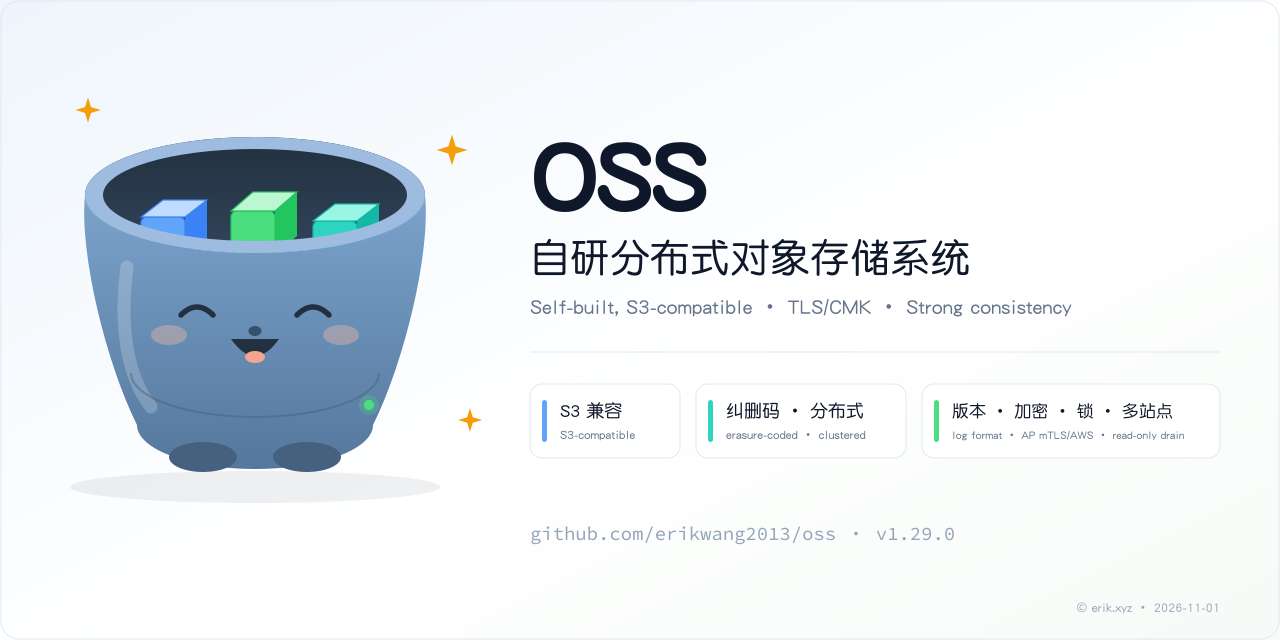
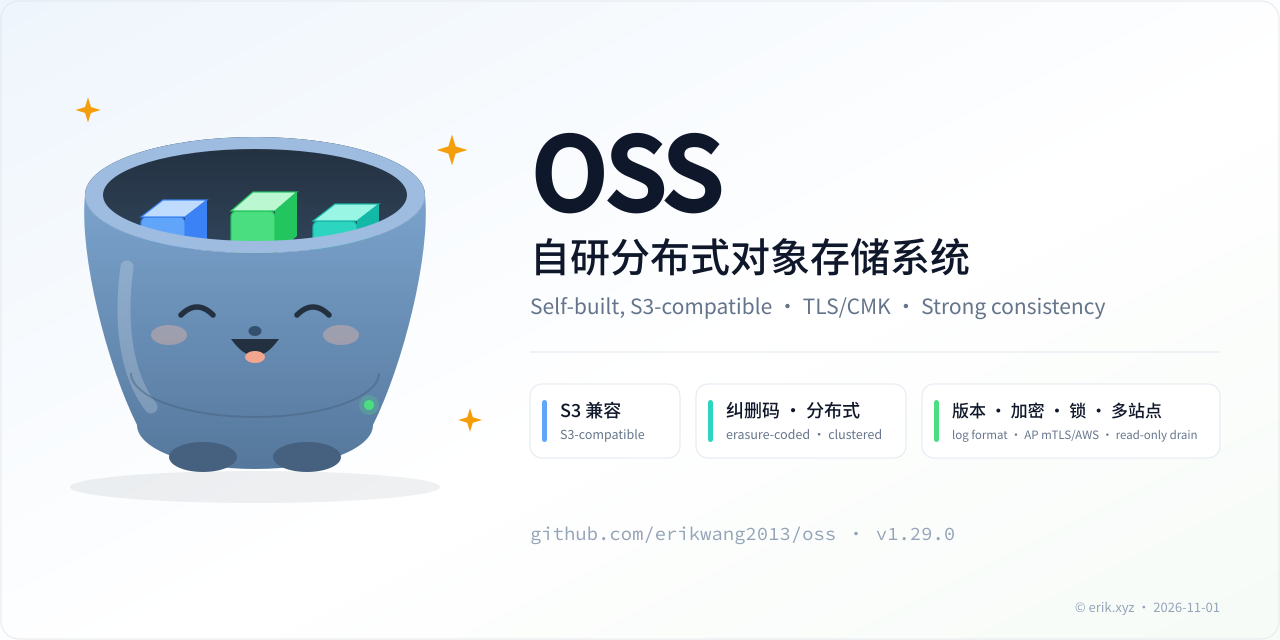
chore(site): replace commercial font names with open-source stacks

diff --git a/site/assets/css/site.css b/site/assets/css/site.css
@@ -23,8 +23,8 @@
   --shadow-soft: 0 14px 40px -28px rgb(13 26 43 / 0.28);
   --radius: 18px;
   --radius-sm: 12px;
-  --font-sans: "SF Pro Display", "Avenir Next", "Segoe UI", "PingFang SC",
-    "Noto Sans SC", "Microsoft YaHei", sans-serif;
+  --font-sans: system-ui, -apple-system, "Noto Sans SC", "Source Han Sans SC",
+    "WenQuanYi Micro Hei", sans-serif;
   --font-mono: "SFMono-Regular", "Cascadia Code", "Liberation Mono", Consolas,
     monospace;
 }
